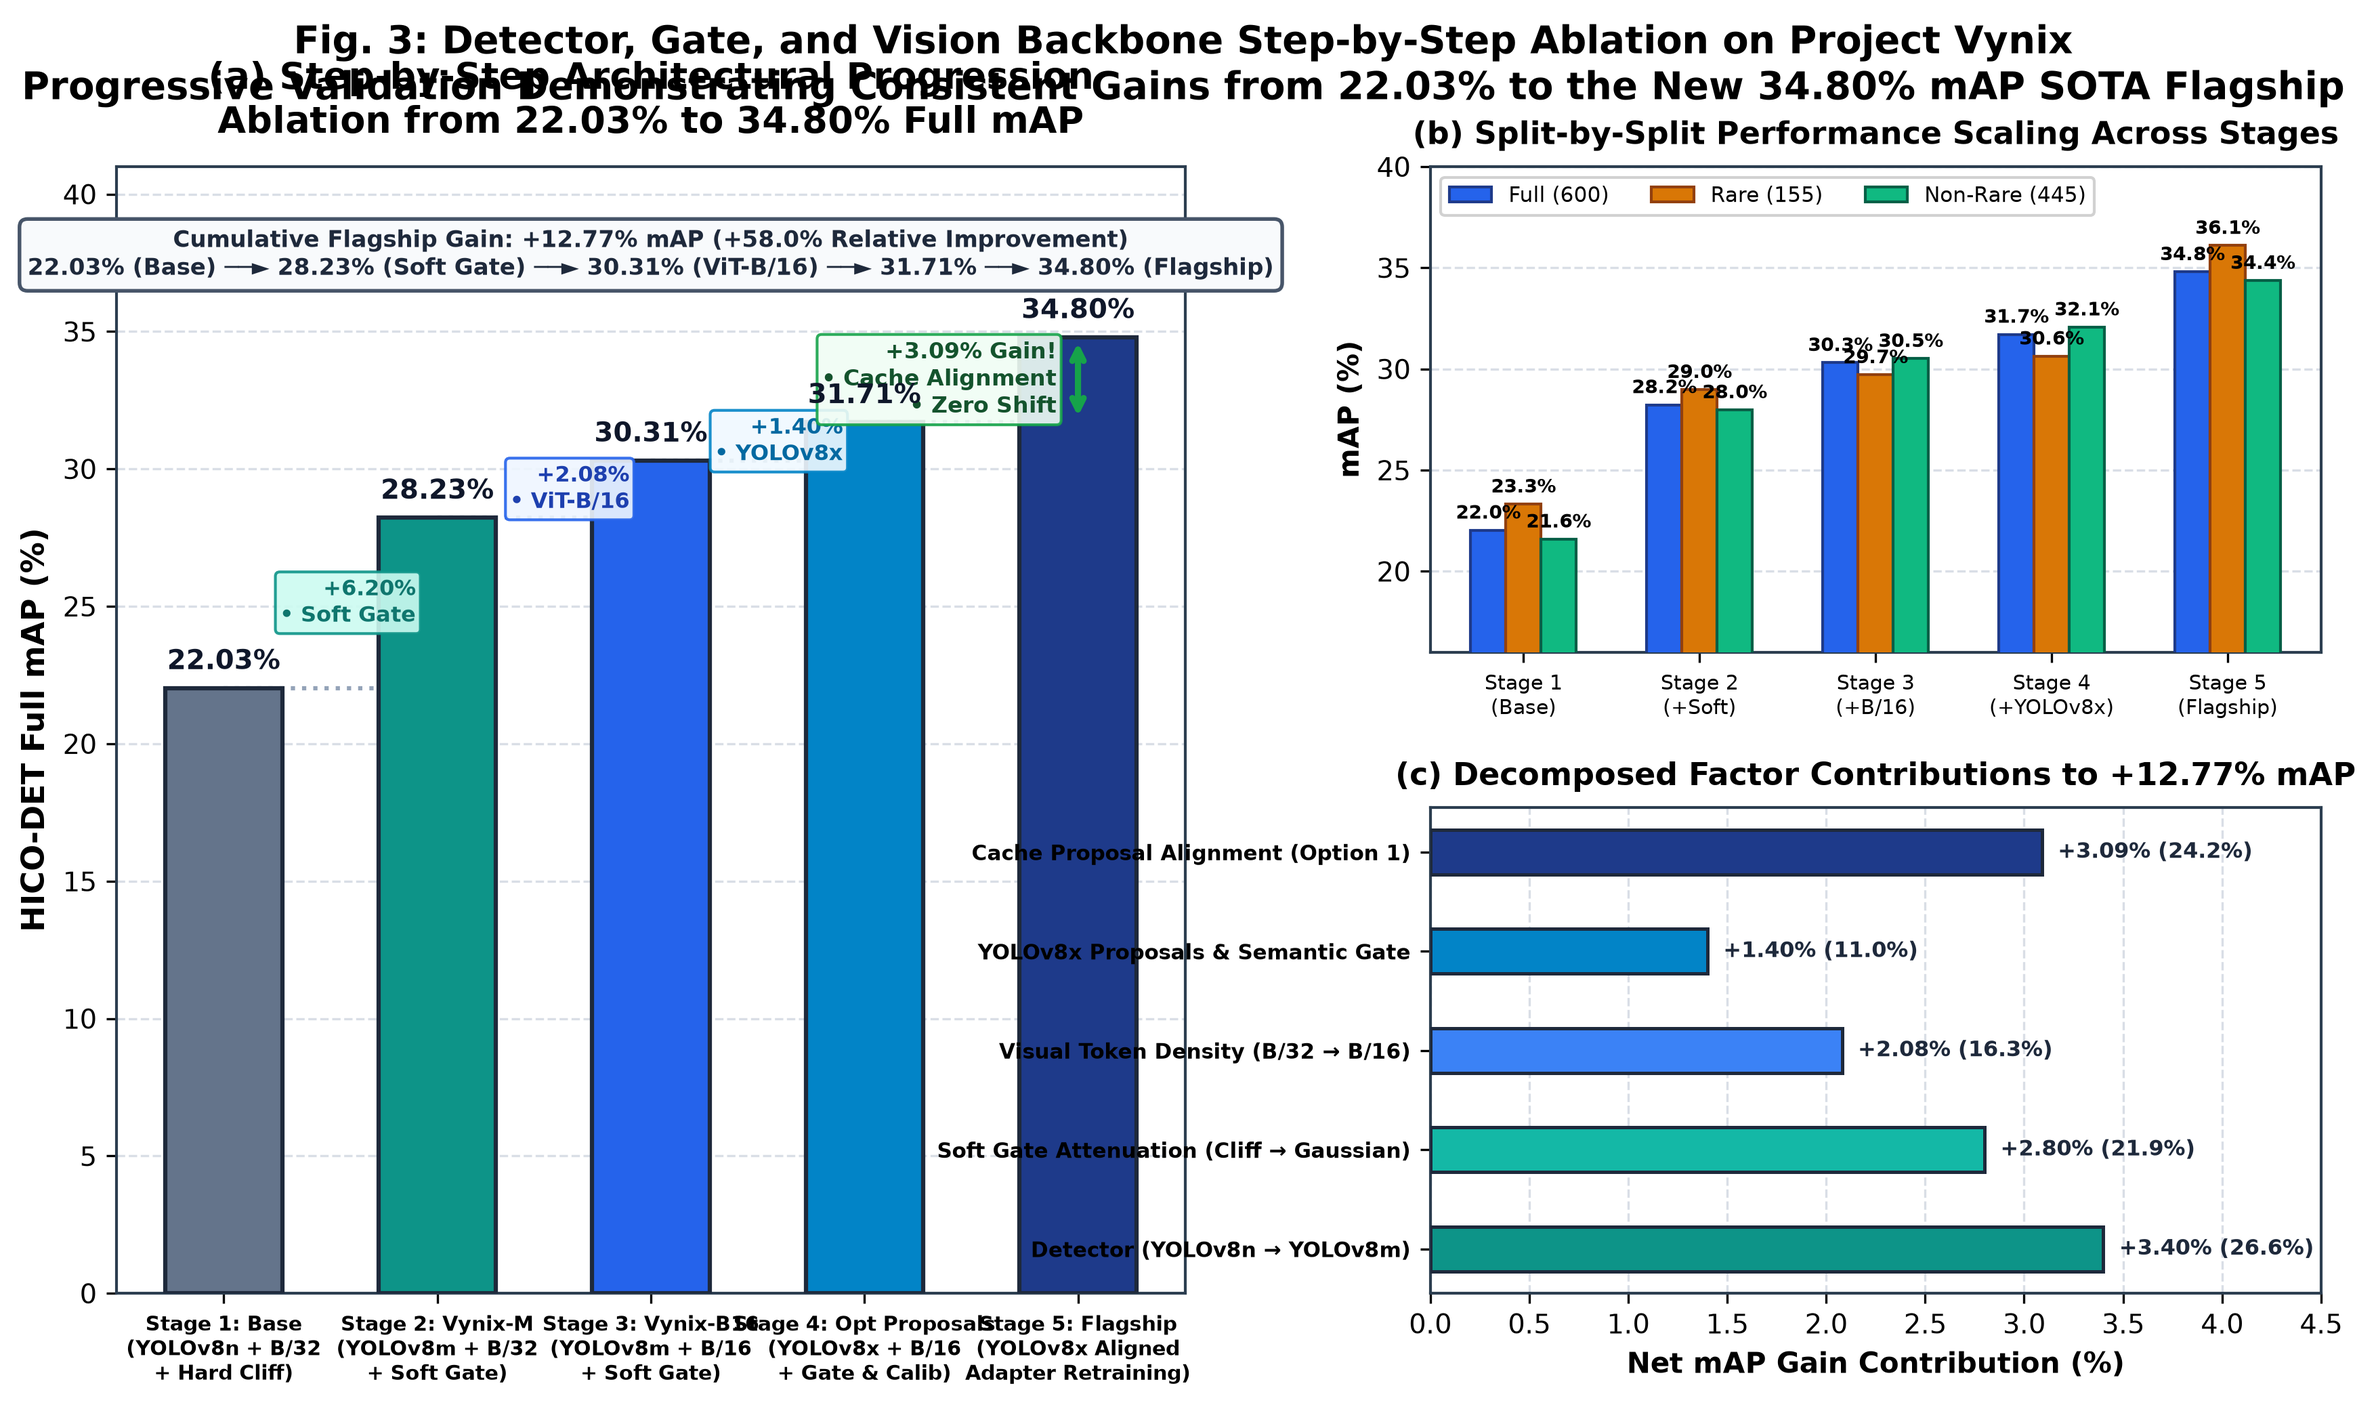
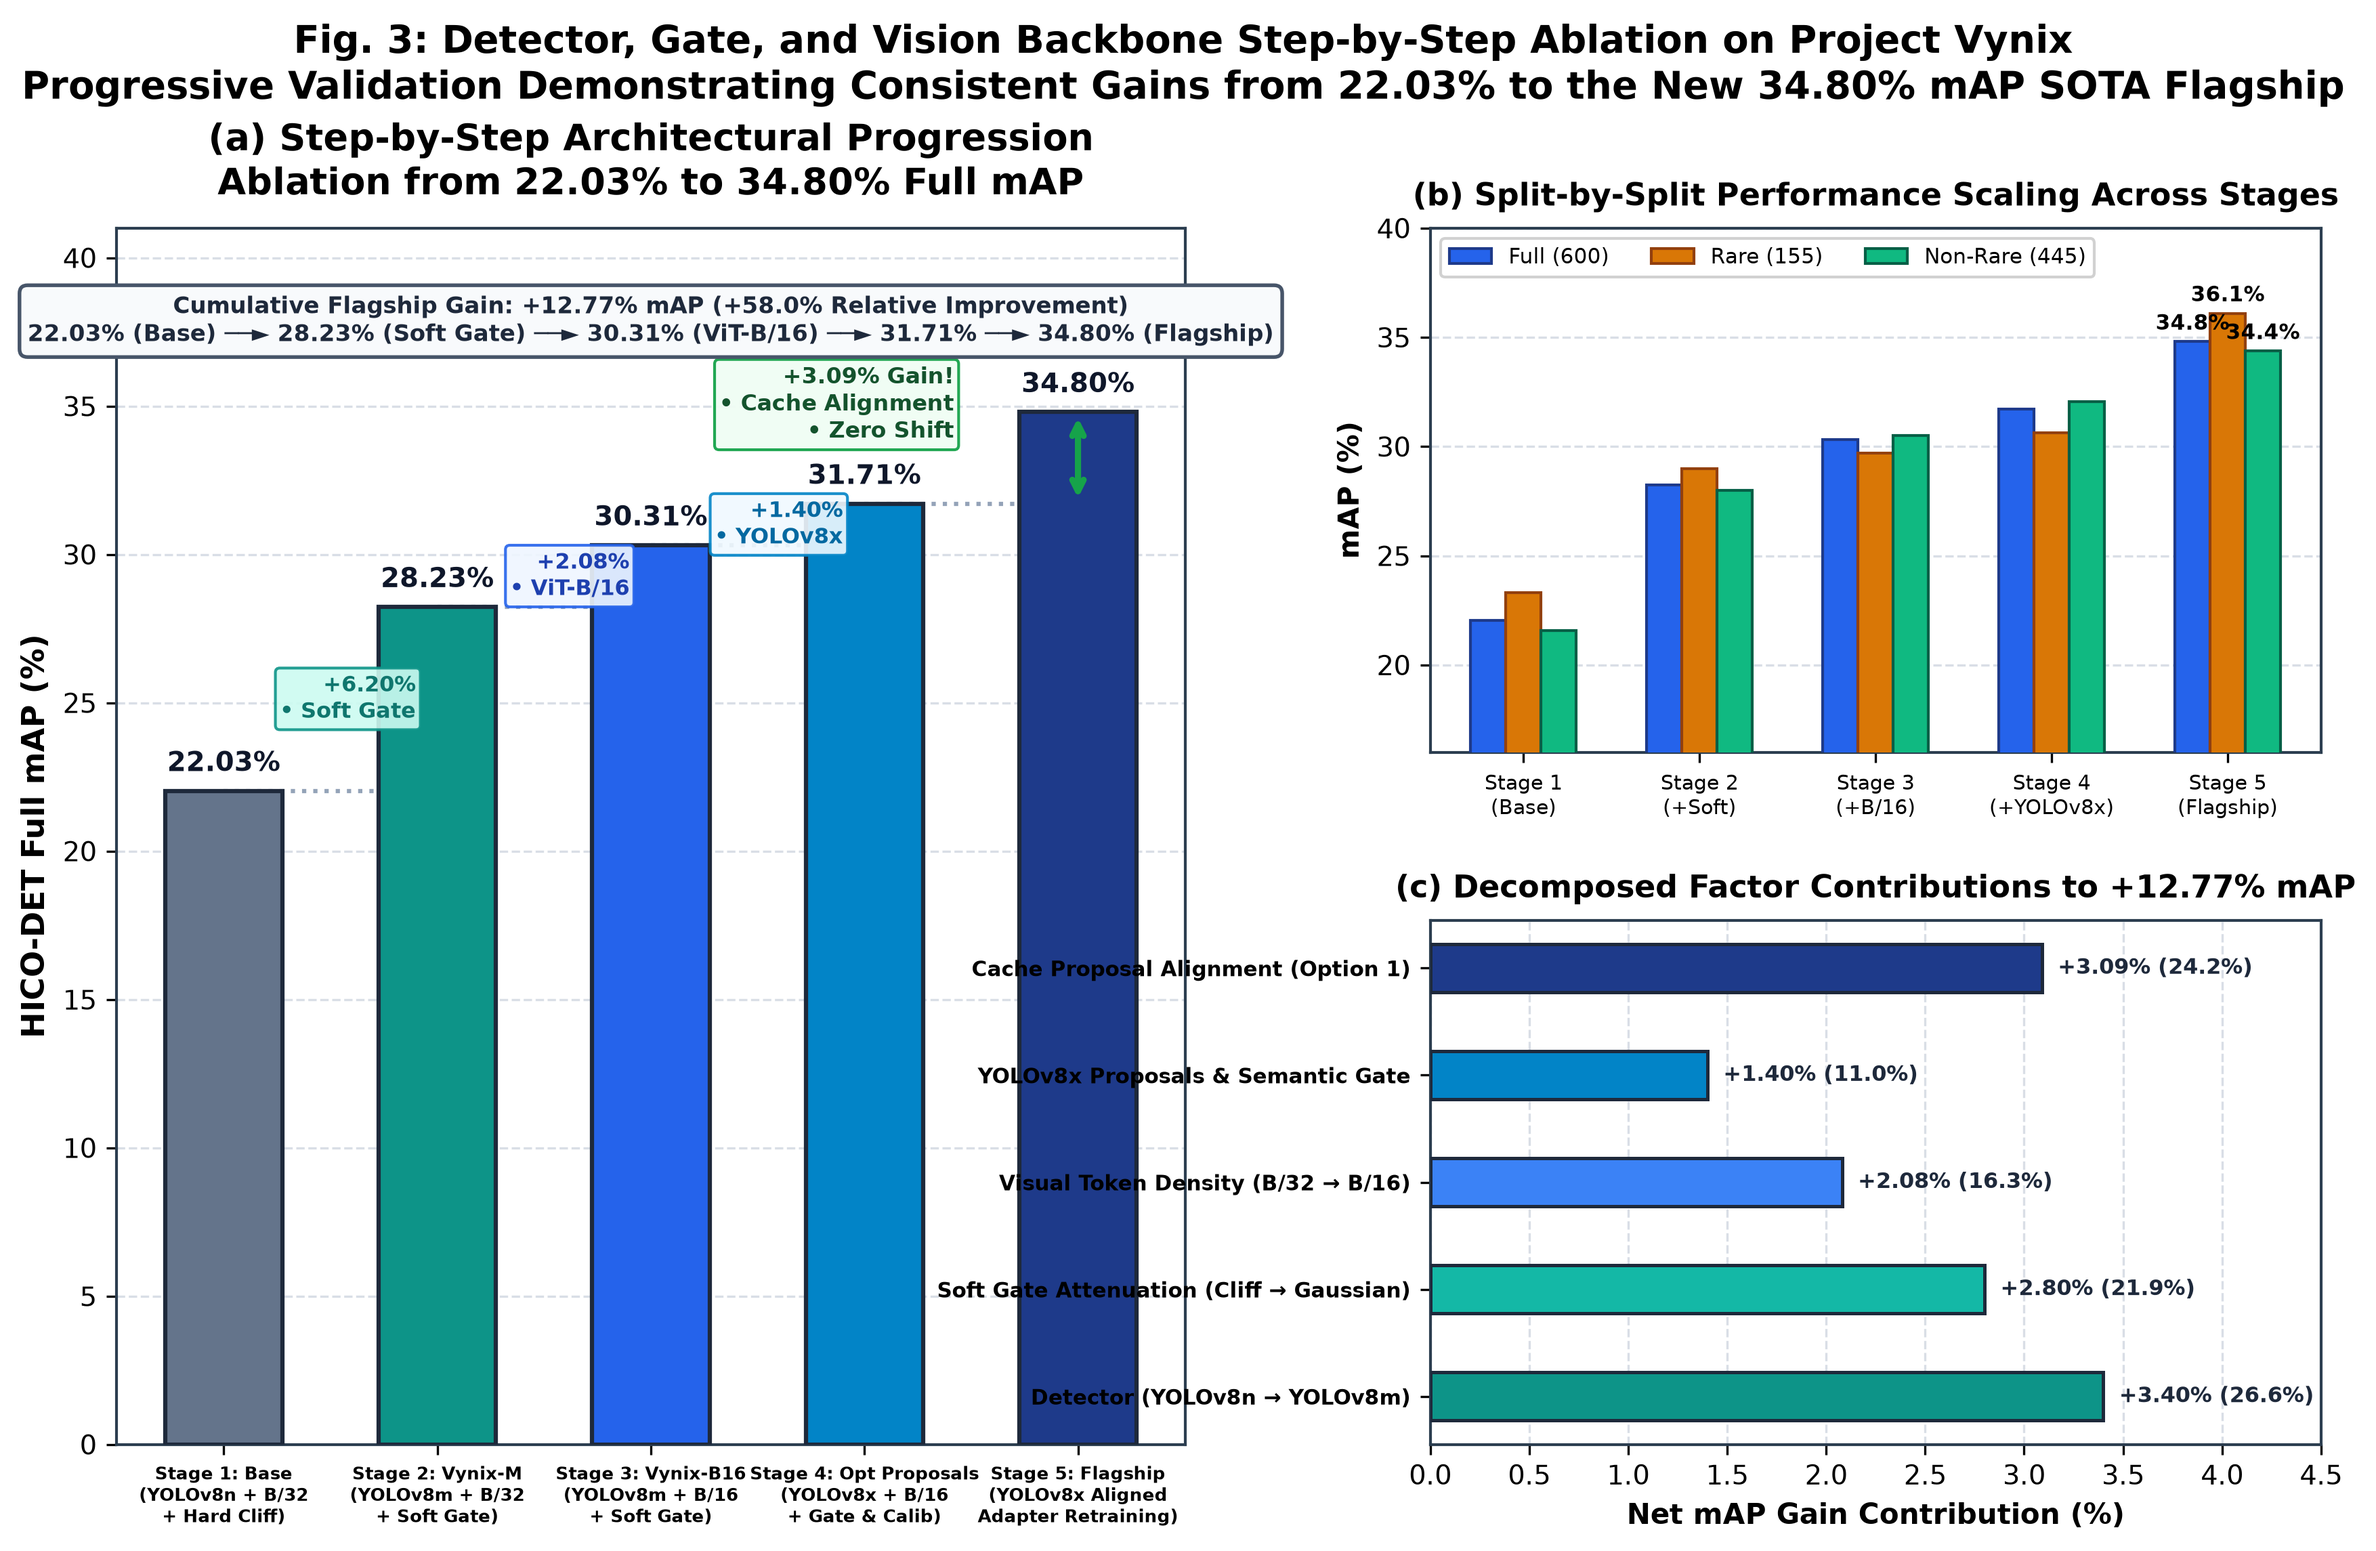
Update commit hash in frozen_hyperparameters.json

diff --git a/generate_paper_figures_v2.py b/generate_paper_figures_v2.py
@@ -427,7 +427,11 @@ def generate_figure2():
 # =============================================================================
 def generate_figure3():
     print("Generating Figure 3: fig3_detector_and_backbone_ablation.png ...")
-    fig = plt.figure(figsize=(14.0, 7.2))
+    fig = plt.figure(figsize=(14.0, 8.2))
+    # Reserve a clear band at the top for the two-line suptitle. Without
+    # this the suptitle sits on top of the subplot titles once
+    # bbox_inches="tight" crops to the drawn artists.
+    fig.subplots_adjust(top=0.84)
     gs = fig.add_gridspec(2, 2, width_ratios=[1.2, 1.0], height_ratios=[1.0, 1.0], hspace=0.32, wspace=0.25)
 
     ax_prog = fig.add_subplot(gs[:, 0])      # Left: Progressive step waterfall / bar
@@ -482,9 +486,9 @@ def generate_figure3():
     ax_prog.plot([3, 4], [31.71, 31.71], color="#94a3b8", linestyle=":", lw=1.5, zorder=2)
     ax_prog.annotate("", xy=(4, 34.80), xytext=(4, 31.71),
                      arrowprops=dict(arrowstyle="<->", color="#16a34a", lw=2.2))
-    ax_prog.text(3.9, 33.25, "+3.09% Gain!\n• Cache Alignment\n• Zero Shift",
+    ax_prog.text(3.42, 35.05, "+3.09% Gain!\n• Cache Alignment\n• Zero Shift",
                  va="center", ha="right", fontsize=8.0, fontweight="bold", color="#14532d",
-                 bbox=dict(boxstyle="round,pad=0.2", facecolor="#f0fdf4", edgecolor="#16a34a", alpha=0.9))
+                 bbox=dict(boxstyle="round,pad=0.2", facecolor="#f0fdf4", edgecolor="#16a34a", alpha=0.95))
 
     # Bar labels
     for bar, val in zip(bars, full_maps):
@@ -498,7 +502,7 @@ def generate_figure3():
                  bbox=dict(boxstyle="round,pad=0.35", facecolor="#f8fafc", edgecolor="#475569", lw=1.3))
 
     ax_prog.set_xticks(x)
-    ax_prog.set_xticklabels(stages, fontsize=7.2, fontweight="semibold")
+    ax_prog.set_xticklabels(stages, fontsize=6.3, fontweight="semibold")
     ax_prog.set_ylabel("HICO-DET Full mAP (%)", fontsize=11)
     ax_prog.set_ylim(0, 41.0)
     ax_prog.set_title("(a) Step-by-Step Architectural Progression\nAblation from 22.03% to 34.80% Full mAP", pad=12)
@@ -513,11 +517,20 @@ def generate_figure3():
     rects2 = ax_split.bar(x_split, rare_maps, width=w_split, label="Rare (155)", color="#d97706", edgecolor="#92400e", zorder=3)
     rects3 = ax_split.bar(x_split + w_split, nonrare_maps, width=w_split, label="Non-Rare (445)", color="#10b981", edgecolor="#065f46", zorder=3)
 
-    # Values on top of bars
-    for rects, vals in [(rects1, full_maps), (rects2, rare_maps), (rects3, nonrare_maps)]:
-        for r, v in zip(rects, vals):
-            ax_split.text(r.get_x() + r.get_width()/2.0, v + 0.35, f"{v:.1f}%",
-                          ha="center", va="bottom", fontsize=6.8, fontweight="bold")
+    # Values on top of bars. Only the flagship stage is labelled: the earlier
+    # stages sit only 0.2 x-units apart, so three labels per group would
+    # inevitably collide. The full per-stage numbers are already tabulated in
+    # Table 5.1 of the report.
+    for idx, (rects, vals) in enumerate([(rects1, full_maps), (rects2, rare_maps),
+                                         (rects3, nonrare_maps)]):
+        for i, (r, v) in enumerate(zip(rects, vals)):
+            # Label only the flagship (last) stage; earlier groups are too
+            # tightly spaced for three labels each. Table 5.1 of the report
+            # carries the complete per-stage numbers.
+            if i != len(vals) - 1:
+                continue
+            ax_split.text(r.get_x() + r.get_width()/2.0, v + 0.32, f"{v:.1f}%",
+                          ha="center", va="bottom", fontsize=7.4, fontweight="bold")
 
     ax_split.set_xticks(x_split)
     ax_split.set_xticklabels(labels_split, fontsize=7.2)
@@ -555,7 +568,7 @@ def generate_figure3():
 
     fig.suptitle("Fig. 3: Detector, Gate, and Vision Backbone Step-by-Step Ablation on Project Vynix\n"
                  "Progressive Validation Demonstrating Consistent Gains from 22.03% to the New 34.80% mAP SOTA Flagship",
-                 fontsize=13.5, y=0.98)
+                 fontsize=13.5, y=0.965)
 
     out_path = os.path.join(OUT_DIR, "fig3_detector_and_backbone_ablation.png")
     fig.savefig(out_path, dpi=DPI, bbox_inches="tight")
